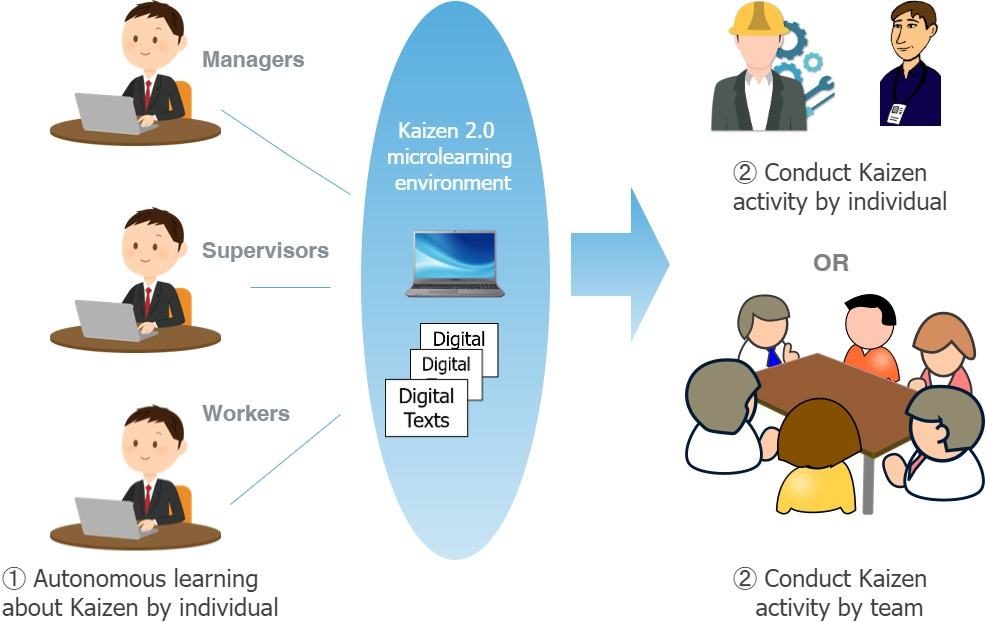
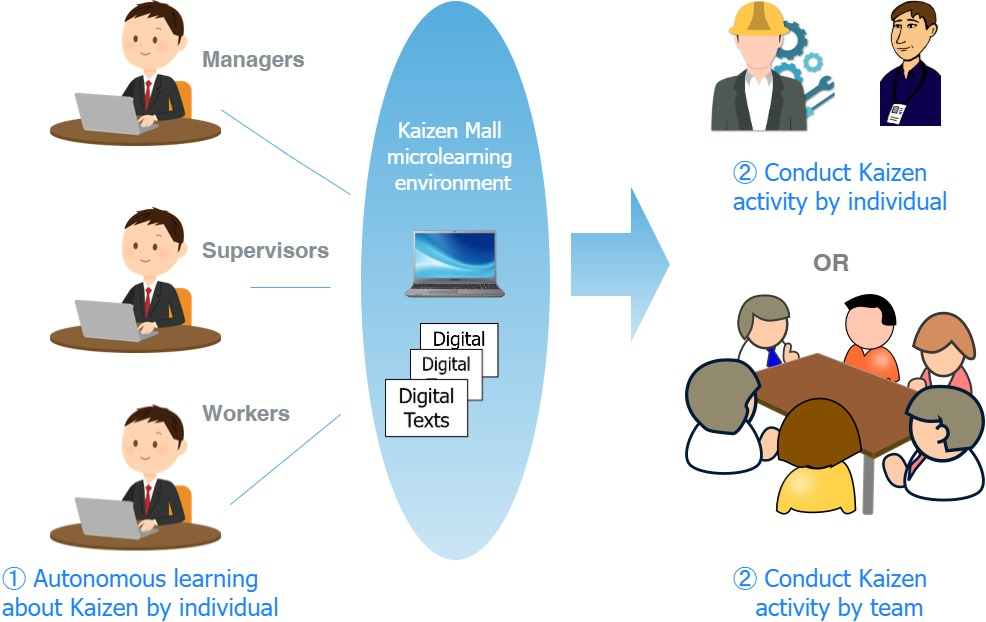
Edit on students login page as per seino san suggestions 01-Feb-2021

diff --git a/assets/css/custom.css b/assets/css/custom.css
@@ -362,7 +362,7 @@ section { padding: 0 0; }
   
     .main-logo img
   {
-    width: 300px;
+    width: 200px;
   
   }
 
@@ -376,7 +376,7 @@ section { padding: 0 0; }
   
   .main-logo img
 {
-  width: 250px;
+  width: 200px;
 
 }
 }

diff --git a/assets/css/style.css b/assets/css/style.css
@@ -119,7 +119,7 @@ a {
 
 
 .title {
-    text-transform: uppercase;
+    /* text-transform: uppercase; */
     font-size: 25px;
     color: #000;
     font-weight: 700;

diff --git a/student/auth/index_pending.php b/student/auth/index_pending.php
@@ -8,15 +8,15 @@ if (isset($_POST['register'])) {
     $fullname=$_POST['fullname'];
     $company=$_POST['company'];
 	$email=$_POST['email'];
-	$enquiery_subject=$_POST['enquiery_subject'];
+	// $enquiery_subject=$_POST['enquiery_subject'];
 	$enquiery=$_POST['enquiery'];
 	$ip_addr = getUserIpAddr();
   	$browser = $_SERVER['HTTP_USER_AGENT'];
 
     $to = "$email";
     $to1 = "info@e-kjs.jp";
-    $subject = mb_encode_mimeheader("Thanks For Your Inquiry. Please do not reply to this E-mail, it is auto-generated");
-    $subject1 = mb_encode_mimeheader("Kaizen2.0- New inquiry from the customer"); 
+    $subject = mb_encode_mimeheader("Thanks For your interest to registeration for Kaizen2.0. Please do not reply to this E-mail, it is auto-generated");
+    $subject1 = mb_encode_mimeheader("Kaizen2.0- Registration request from the customer"); 
     $headers_from = 'From: info@e-kjs.jp' . "\n";
     //$headers = 'From: info@e-kjs.jp' . "\n";
     $headers = 'MIME-Version: 1.0' . "\n";
@@ -25,15 +25,13 @@ if (isset($_POST['register'])) {
                     <table width=100% margin=0>  <tbody>  <!---outer table -->
                     <tr><td>Dear $fullname </td></tr><br>
                     <tr><td></td></tr>
-                    <tr><td>Thank you for your inquiry to us, Kaizen2.0 project! </td></tr> 
+                    <tr><td>Thank you for your interest to register-Kaizen2.0 project! </td></tr> 
                     <tr><td></td></tr>                              
                     <tr><td>Now, we are checking your inquiry,so please wait a few days for our reply to you.Thank you. </td></tr><br>
                     <tr><td></td></tr>
                     <tr><td>Best Regards,</td></tr>
                     <tr><td>------------------------------------------------------------------------------------------------------------</td></tr><br>
-                    <tr><td>KAIZEN2.0: MICROLEARNING WITH A DIGITAL BRAIN project </td></tr>
-                    <tr><td>email:〇〇〇〇 </td></tr>
-                    <tr><td>HP:〇〇〇〇 </td></tr>
+                    <tr><td>KAIZEN2.0 </td></tr>
                     <tr><td>------------------------------------------------------------------------------------------------------------</td></tr><br>
                     </table>
                     </body>
@@ -45,16 +43,15 @@ if (isset($_POST['register'])) {
                     <table width=100% margin=0>  <tbody>  <!---outer table -->
                     <tr><td>Dear Kaizen2.0 Admin,</td></tr><br>
                     <tr><td></td></tr>
-                    <tr><td>We have a new inquiry from the below mentioned customer</td></tr><br>
+                    <tr><td>We have a Kaizen2.0 registration request from the below mentioned customer</td></tr><br>
                     <tr><td></td></tr>
                     <tr><td>------------------------------------------------------------------------------------------------------------</td></tr><br>
                     <tr><td><strong>Name：</strong>$fullname</td></tr>
                     <tr><td><strong>Company：</strong>$company</td></tr>
 					<tr><td><strong>E-mail：</strong>$email</td></tr>
-					<tr><td><strong>E-mail：</strong>$enquiery_subject</td></tr>
                     <tr><td><strong>Message：</strong>$enquiery</td></tr>
                     <tr><td>------------------------------------------------------------------------------------------------------------</td></tr><br>
-                    <tr><td>Please respond to the inquiry as soon as possible.</td></tr>
+                    <tr><td>Please respond to the registration request as soon as possible.</td></tr>
                     <tr><td><strong>User's additional Information  ：</strong></td></tr>
 					<tr><td><strong>IP address      ：</strong>$ip_addr</td></tr>
 					<tr><td><strong>Browser Details ：</strong>$browser</td></tr>
@@ -148,7 +145,7 @@ if (isset($_POST['register'])) {
 	<nav class="navbar navbar-expand-lg navbar-light fixed-top navbar-custom sticky">
 		<div class="container">
 			<a href="index.php" rel="home" class="main-logo">
-				<img src="../../assets/images/logo2.png" alt="kaizen2.0"  data-retina="assets/img/logo-small@2x.png" data-width="186" data-height="39">
+				<img src="../../assets/images/logo4.png" alt="kaizen2.0"  data-retina="assets/img/logo-small@2x.png" data-width="186" data-height="20">
 			</a>
 			<button class="navbar-toggler" type="button" data-toggle="collapse" data-target="#navbarCollapse" aria-controls="navbarCollapse" aria-expanded="false" aria-label="Toggle navigation"> <span class="ti-menu">
           </span>
@@ -158,10 +155,10 @@ if (isset($_POST['register'])) {
 					<li class="nav-item active"> <a class="nav-link" href="#kaizen">Kaizen
               </a>
 					</li>
-					<li class="nav-item"> <a class="nav-link" href="#join">Join
+					<!-- <li class="nav-item"> <a class="nav-link" href="#join">Join
               </a>
-					</li>
-					<li class="nav-item"> <a class="nav-link" href="#enquiery">Contact Us
+					</li> -->
+					<li class="nav-item"> <a class="nav-link" href="#enquiery">Registration
               </a>
 					</li>
 				</ul>
@@ -217,7 +214,7 @@ if (isset($_POST['register'])) {
             ?>
 
 	<!-- Start Services -->
-	<section class="section3">
+	<section class="section3 bg-light">
 		<div class="container">
 			<div class="row justify-content-center text-center">
 				<div class="col-lg-12">
@@ -225,12 +222,12 @@ if (isset($_POST['register'])) {
 						<h3 class="title">
                 <i class="fa fa-line-chart title-icon text-muted">
                 </i>
-                <span class="font-weight-bold">  KAIZEN2.0：MICROLEARNING WITH A DIGITAL BRAIN
+                <span class="font-weight-bold">  KAIZEN Mall
                 </span>
               </h3>
 					</div>
 					<div class="mt-3 mb-5">
-						<p class="explanation">The objective of Kaizen 2.0 is to pilot the use of a mobile internet-based, artificial intelligence-powered microlearning platform – to teach Japanese Kaizen processes to SMEs in order to improve productivity and managerial skills.</p>
+						<p class="explanation">KAIZEN Mall is to teach Japanese Kaizen processes to SMEs in order to improve productivity and managerial skills.</p>
 					</div>
 				</div>
 			</div>
@@ -316,7 +313,7 @@ if (isset($_POST['register'])) {
 						<br>
 						<div class="row align-items-center justify-content-center text-center">
 							<div class="col-lg-6 col-md-6 col-sm-12">
-								<p class="nav-expl">You fill up the assessment form for registration of Kaizen2.0 then administrator send your login ID & password by E-mail. After that you login to the platform and learn about Kaizen from the video lessons created by Japanese experts. </p>
+								<p class="nav-expl">You fill up the assessment form for registration of Kaizen Mall then administrator send your login ID & password by E-mail. After that you login to the platform and learn about Kaizen from the video lessons created by Japanese experts. </p>
 								<img src="../../assets/images/work1.jpg" alt="Image placeholder" class="img-fluid">
 							</div>
 							<div class="col-lg-6 col-md-6 col-sm-12">
@@ -332,7 +329,7 @@ if (isset($_POST['register'])) {
 	</section>
 	<!-- END HOME -->
 	<!-- Start Features -->
-	<section class="section bg-light" id="join">
+	<!-- <section class="section bg-light" id="join">
 		<div class="container">
 			<div class="row align-items-center justify-content-center text-center">
 				<div class="col-lg-12">
@@ -387,7 +384,7 @@ if (isset($_POST['register'])) {
 			</div>
 		</div>
 		</div>
-	</section>
+	</section> -->
 	<!-- End Features -->
 	<!-- CONTACT FORM START-->
 	<section class="section1" id="enquiery">
@@ -454,8 +451,8 @@ if (isset($_POST['register'])) {
 				<div class="col-lg-6 col-md-12 col-sm-12">
 					<div class="enquiery">
 						<h2 class="text-center"> 
-                      <i class="ti-headphone-alt title-icon text-muted">
-                      </i>  Contact Us
+                      <i class="ti-write title-icon text-muted">
+                      </i>Registration
                     </h2>
 						<div class="bg-white p-4 rounded">
 							<div class="bg-white p-4 mt-0 rounded ">
@@ -466,38 +463,41 @@ if (isset($_POST['register'])) {
 								<form class="login-form" method="POST" id="enquiery">
 									<div class="row">
 										<div class="col-lg-12 mt-2">
-											<input type="text" class="form-control" name="fullname" placeholder="Your Name" required="">
+											<label for="exampleFormControlTextarea1" class="text-secondary"><span class="text-danger">* </span>mandatory</label>
 										</div>
 										<div class="col-lg-12 mt-2">
-											<input type="text" class="form-control"  name="company" placeholder="Company Name" required="">
+											<input type="text" class="form-control" name="fullname" placeholder="Your Name *" required="">
 										</div>
 										<div class="col-lg-12 mt-2">
-											<input type="email" class="form-control" name="email" placeholder="Email" pattern="[a-z0-9._%+-]+@[a-z0-9.-]+.[a-z]{2,3}$" required="">
+											<input type="text" class="form-control"  name="company" placeholder="Company Name *" required="">
 										</div>
 										<div class="col-lg-12 mt-2">
+											<input type="email" class="form-control" name="email" placeholder="Email *" pattern="[a-z0-9._%+-]+@[a-z0-9.-]+.[a-z]{2,3}$" required="">
+										</div>
+										<!-- <div class="col-lg-12 mt-2">
 											<input type="text" class="form-control" name="enquiery_subject" placeholder="Subject" required="">
-										</div>
+										</div> -->
 										<div class="col-lg-12 mt-2">
-											<label for="exampleFormControlTextarea1" class="explanation">Enquiery Details</label>
-											<textarea type="text" class="form-control pb_height-100" name="enquiery" required></textarea>
+											<!-- <label for="exampleFormControlTextarea1" class="explanation">Enquiery Details</label> -->
+											<textarea type="text" class="form-control pb_height-100" name="enquiery" placeholder="If you have any enquiery"></textarea>
 										</div>
 										<div class="col-lg-12 mt-4">
 											<section>
-												<input type="text" class="form-control" id="UserCaptchaCode" placeholder='Enter Captcha - Case Sensitive'  onBlur="CheckCaptcha()" required>
+												<input type="text" class="form-control" id="UserCaptchaCode" placeholder='Enter Captcha *'  onBlur="CheckCaptcha()" required>
 												<span id="WrongCaptchaError" class="error"></span>
 											</section>
 											<section>
 												<span id="SuccessMessage" class="success">Hurray! Your have successfully entered the captcha.</span>
 												<div class='CaptchaWrap'>
 													<div id="CaptchaImageCode" class="CaptchaTxtField">
-														<canvas id="CapCode" class="capcode" width="300" height="80"></canvas>
+														<canvas id="CapCode" class="capcode" width="240" height="64"></canvas>
 													</div> 
 													<input type="button" class="ReloadBtn" onclick='CreateCaptcha();'>
 												</div>
 											</section>
 										</div>
 										<div class="col-lg-12 mt-4">
-											<input type="submit" class="btn btn-custom w-100" name="register" value="Send" onclick="return confirm('Are you sure to register all information you entered');">
+											<input type="submit" class="btn btn-custom w-100" name="register" value="Register" onclick="return confirm('Are you sure to register all information you entered');">
 										</div>
 									</div>
 								</form>
@@ -530,8 +530,7 @@ if (isset($_POST['register'])) {
 
 
 	<!-- Start Footer -->
-	<section class="section1 bg-footer">
-		<!-- <div class="bg-overlay"></div> -->
+	<!-- <section class="section1 bg-footer">
 		<div class="container">
 			<div class="row align-items-center justify-content-center text-center ml-auto">
 				<div class="col-6 col-md mt-4">
@@ -566,19 +565,31 @@ if (isset($_POST['register'])) {
 		<div class="container-fluid">
 			<hr class="style-six">
 		</div>
-	</section>
+	</section> -->
 	<section class="section1 bg-footer">
 		<div class="container">
 			<div class="row">
-				<div class="col-lg-6 col-md-6">
+				<div class="col-lg-3 col-md-6 col-6 mt-4">
+					<a href="https://www.avivatechnologies.com/home.html" target="blank">
+						<img src="../../assets/images/aviva.png" class="rounded foot_logo_size" alt="Image placeholder">
+					</a>
+				</div>
+				<div class="col-lg-3 col-md-6 col-6 mt-4">
+					<a href="https://www.e-kjs.jp/en/index.php" target="blank">
+						<img src="../../assets/images/kjs1.png" class="rounded foot_logo_size" alt="Image placeholder">
+					</a>
+				</div>
+				<hr class="style-six">
+				<div class="col-lg-3 col-md-6 mt-4">
 					<ul class="list-unstyled address">
 						 <li>Local consultant contact:</li>
 						<li>Aviva Technologies Ltd.,</li>
 						<li>5th Floor, Utumishi Co-Op House,</li>
 						<li>Mamlaka Road, (behind Serena Hotel).</li>
 						<li>P.O. Box 7564 - 00200 City Square, Nairobi Kenya.</li>
+					</ul>
 				</div>
-				<div class="col-lg-6 col-md-6">
+				<div class="col-lg-3 col-md-6 mt-4">
 					<ul class="address list-unstyled ">
 						<li><br></li>
 						<li>Tel: +254-20-269-6387;</li>
@@ -589,6 +600,7 @@ if (isset($_POST['register'])) {
                                   </u>
 							</a>
 						</li>
+					</ul>
 				</div>
 			</div>
 		</div>
